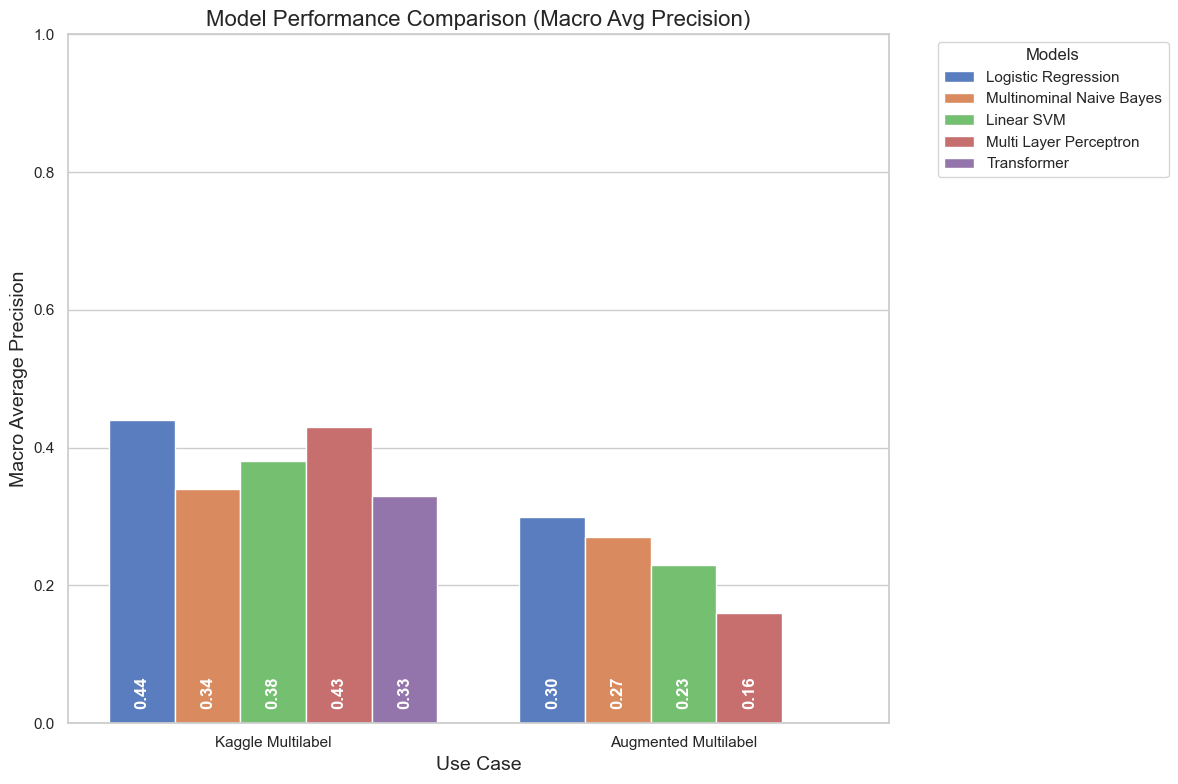
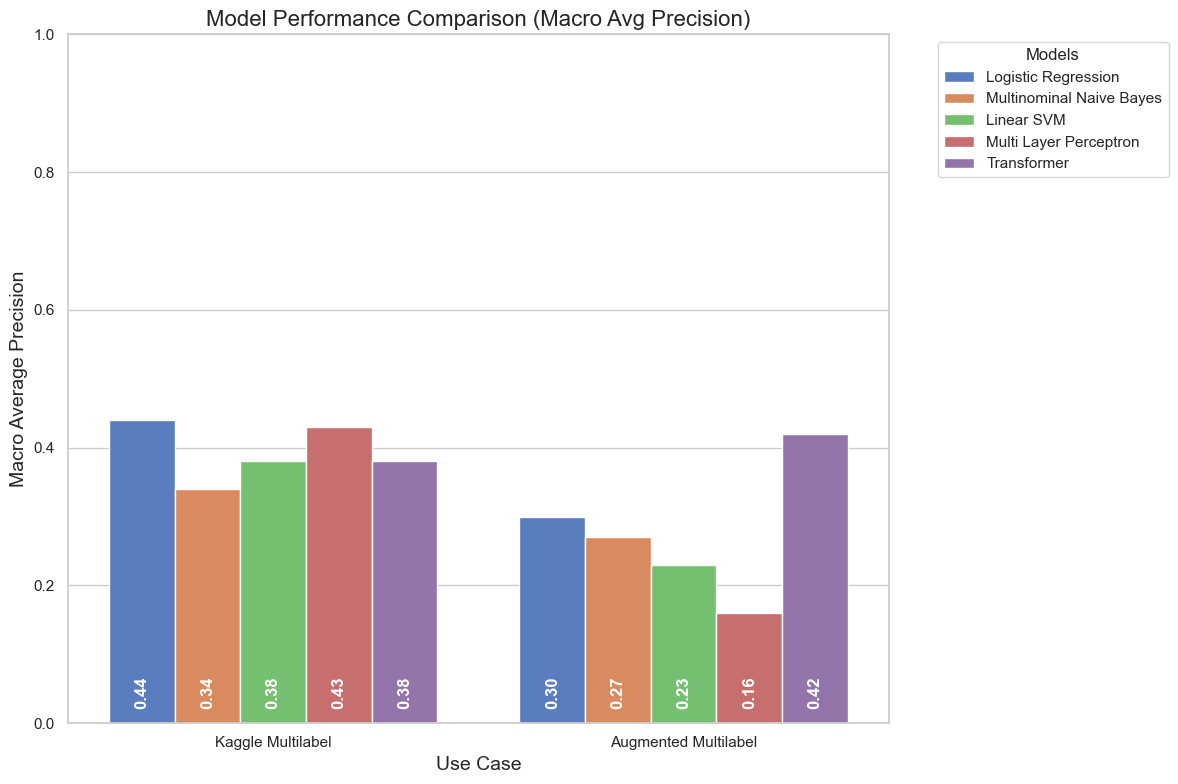
update all graphics

Changed region(s): [[0.6418, 0.551, 0.7334, 0.9184], [0.3056, 0.5816, 0.3973, 0.6429]]

diff --git a/scripts/generate_graph.py b/scripts/generate_graph.py
@@ -90,71 +90,72 @@ if __name__ == "__main__":
     # Macro Average Precision
     precision_data = {
         "Logistic Regression": {
-            "Kaggle Binary": 0.96,
-            "Wikimedia Multiclass": 0.90,
+            # "Kaggle Binary": 0.96,
+            # "Wikimedia Multiclass": 0.90,
             "Kaggle Multilabel": 0.44,
-            # "Augmented Multilabel": 0.30,
+            "Augmented Multilabel": 0.30,
         },
         "Multinominal Naive Bayes": {
-            "Kaggle Binary": 0.91,
-            "Wikimedia Multiclass": 0.80,
+            # "Kaggle Binary": 0.91,
+            # "Wikimedia Multiclass": 0.80,
             "Kaggle Multilabel": 0.34,
-            # "Augmented Multilabel": 0.27,
+            "Augmented Multilabel": 0.27,
         },
         "Linear SVM": {
-            "Kaggle Binary": 0.97,
-            "Wikimedia Multiclass": 0.90,
+            # "Kaggle Binary": 0.97,
+            # "Wikimedia Multiclass": 0.90,
             "Kaggle Multilabel": 0.38,
-            # "Augmented Multilabel": 0.23,
+            "Augmented Multilabel": 0.23,
         },
         "Multi Layer Perceptron": {
-            "Kaggle Binary": 0.96,
-            "Wikimedia Multiclass": 0.89,
+            # "Kaggle Binary": 0.96,
+            # "Wikimedia Multiclass": 0.89,
             "Kaggle Multilabel": 0.43,
-            # "Augmented Multilabel": 0.16,
+            "Augmented Multilabel": 0.16,
         },
         "Transformer": {
-            "Kaggle Binary": 0.95,
-            "Wikimedia Multiclass": 0.86,
-            "Kaggle Multilabel": 0.33,
-            # "Augmented Multilabel": 0.00,
+            # "Kaggle Binary": 0.95,
+            # "Wikimedia Multiclass": 0.86,
+            "Kaggle Multilabel": 0.38,
+            "Augmented Multilabel": 0.42,
         },
     }
     # Macro Average Recall
     recall_data = {
         "Logistic Regression": {
-            "Kaggle Binary": 0.96,
-            "Wikimedia Multiclass": 0.90,
+            # "Kaggle Binary": 0.96,
+            # "Wikimedia Multiclass": 0.90,
             "Kaggle Multilabel": 0.32,
-            # "Augmented Multilabel": 0.15,
+            "Augmented Multilabel": 0.15,
         },
         "Multinominal Naive Bayes": {
-            "Kaggle Binary": 0.91,
-            "Wikimedia Multiclass": 0.80,
+            # "Kaggle Binary": 0.91,
+            # "Wikimedia Multiclass": 0.80,
             "Kaggle Multilabel": 0.65,
-            # "Augmented Multilabel": 0.13,
+            "Augmented Multilabel": 0.13,
         },
         "Linear SVM": {
-            "Kaggle Binary": 0.96,
-            "Wikimedia Multiclass": 0.90,
+            # "Kaggle Binary": 0.96,
+            # "Wikimedia Multiclass": 0.90,
             "Kaggle Multilabel": 0.38,
-            # "Augmented Multilabel": 0.25,
+            "Augmented Multilabel": 0.25,
         },
         "Multi Layer Perceptron": {
-            "Kaggle Binary": 0.96,
-            "Wikimedia Multiclass": 0.89,
+            # "Kaggle Binary": 0.96,
+            # "Wikimedia Multiclass": 0.89,
             "Kaggle Multilabel": 0.35,
-            # "Augmented Multilabel": 0.20,
+            "Augmented Multilabel": 0.20,
         },
         "Transformer": {
-            "Kaggle Binary": 0.95,
-            "Wikimedia Multiclass": 0.86,
-            "Kaggle Multilabel": 0.54,
-            # "Augmented Multilabel": 0.00,
+            # "Kaggle Binary": 0.95,
+            # "Wikimedia Multiclass": 0.86,
+            "Kaggle Multilabel": 0.46,
+            "Augmented Multilabel": 0.50,
         },
     }
 
     visualizer = ModelPerformanceVisualizer()
-    visualizer.set_data(precision_data, "Precision")
-    # visualizer.set_data(recall_data, "Recall")
+    # visualizer.set_data(precision_data, "Precision")
+    visualizer.set_data(recall_data, "Recall")
     visualizer.bar_plot()
+#
